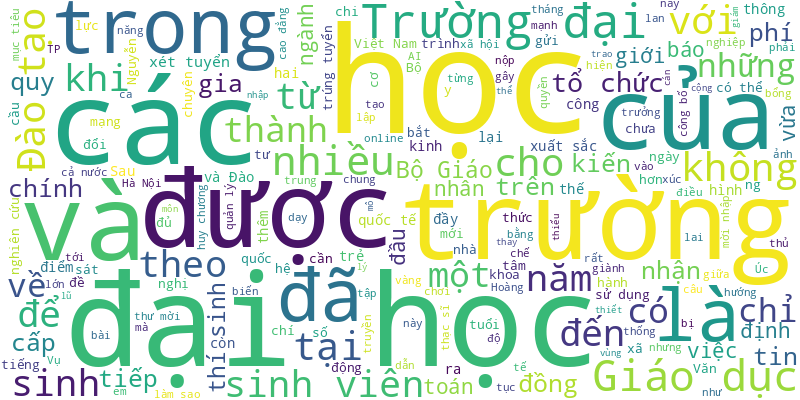
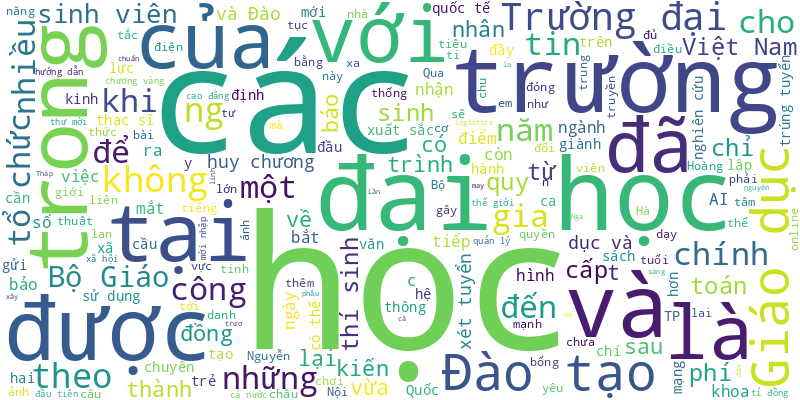
🍀 = 50%

diff --git a/README.md b/README.md
@@ -1,6 +1,15 @@
 # Tuoi Tre RSS 
 
 ## Giáo dục 
+- Việt Nam giành 1 giải Champion, 10 huy chương vàng, 7 huy chương bạc, 4 huy chương đồng tại Đấu trường toán học châu Á AIMO 2025.
+- Quảng Ngãi đề xuất khoảng 750 tỉ đồng xây dựng 5 trường học liên cấp ở 5 xã. Các xã còn lại sẽ đề xuất sau.
+- Lần đầu tiên một chương trình đào tạo thạc sĩ chuẩn Đức trong lĩnh vực logistics và quản lý chuỗi cung ứng được tổ chức tại Việt Nam.
+- Những mảnh đời kém may mắn tại Đồng Tháp được phẫu thuật mắt miễn phí nhờ chương trình 'Phẫu thuật mắt đục thủy tinh thể - Rạng ngời đôi mắt Việt Nam', với chủ đề ‘Ánh sáng Sen Hồng’ lần 1 năm 2025'.
+- Bộ Giáo dục và Đào tạo vừa ban hành hướng dẫn dạy học 2 buổi/ngày theo nguyên tắc linh hoạt và đảm bảo nguyên tắc tự nguyện.
+- Khoảng 6,3 tỉ đồng là số tiền mà Trường cao đẳng Việt Nam - Hàn Quốc - Quảng Ngãi nợ giảng viên. Trong đó tiền nợ dạy vượt giờ kéo dài cả chục năm. Chủ tịch UBND tỉnh Quảng Ngãi yêu cầu rà roát, giải quyết.
+- Trong danh sách các đơn vị chậm đóng bảo hiểm xã hội với số tiền lớn và kéo dài tại TP Đà Nẵng, một trường THPT công lập ở thị xã Điện Bàn (cũ) nợ hơn 474 triệu bảo hiểm khiến nhiều người băn khoăn. Thực hư ra sao?
+- Công cụ AI của start-up này giúp sinh viên đặt bất kỳ câu hỏi nào và nhận lại kết quả chính xác, tin cậy, có trích dẫn minh bạch, và đặc biệt phù hợp với văn hóa, ngôn ngữ Việt Nam.
+- Theo dự luật mới, các sách do AI tạo ra sẽ được sử dụng như sách tham khảo, thay vì là sách giáo khoa bắt buộc.
 - Sau khi sáp nhập đơn vị hành chính, hàng nghìn xã phường thiếu cán bộ giáo dục có chuyên môn là điều đã có thể dự báo. Đã đến lúc cần thay đổi mô hình quản lý, trao quyền cho nhà trường và thiết lập cơ chế giám sát từ cộng đồng.
 - Học bổng ngăn dòng học sinh vùng lũ Nghệ An bỏ học đến với các em khi nước lũ vừa rút, tiếp thêm động lực cho các em tới trường tìm con chữ.
 - Theo Bộ Giáo dục - Đào tạo, cả nước cần khoảng 6.000 cán bộ giáo dục cấp xã sau khi tổ chức lại chính quyền hai cấp.
@@ -42,69 +51,64 @@
 - Không khó để bắt gặp những ý tưởng táo bạo, những mô hình sáng tạo được hình thành ngay từ giảng đường đại học.
 - Nhiều trường đại học đã thông báo trúng tuyển, thậm chí gửi thư mời nhập học cho thí sinh trong khi hiện vẫn chưa đến ngày tổ chức xét tuyển đại học chính quy năm 2025.
 - Trong bối cảnh các trường đại học đẩy mạnh tự chủ và học phí tăng theo lộ trình, chi phí học tập tại các TP lớn liên tục tăng thời gian qua, nhu cầu vay vốn học tập của sinh viên rất lớn.
-- Bối cảnh xã hội nhiều biến động và thách thức hiện nay đặt ra những đòi hỏi mới với từng gia đình, nhà trường và cả nền giáo dục cũng như xã hội để trả lời chung câu hỏi "Làm sao để con trẻ lớn lên vững vàng giữa thời đại biến động?".
-- Đây là mục tiêu được Đại học Kinh tế quốc dân đề ra thực hiện vào năm 2030, trong đề án phát triển tiếng Anh trở thành ngôn ngữ thứ hai trong nhà trường vừa được đại học ban hành.
-- Bộ trưởng Nguyễn Kim Sơn đã có trả lời về kiến nghị cho phép tổ chức dạy thêm học thêm tại trường dưới sự quản lý chặt chẽ của ngành giáo dục, nộp thuế đầy đủ.
-- Có một vấn đề đã được nhận ra từ rất lâu nhưng đến nay vẫn chưa thay đổi nhiều, đó là làm sao đào tạo y khoa ở Việt Nam tiếp cận được chuẩn quốc tế.
-- Vụ thầy Trần Văn Tâm, cựu hiệu trưởng Trường THCS Tam Giang Tây (xã Tân Ân, tỉnh Cà Mau), bị tuyên 7 năm tù vì 'tham ô' hơn 10,7 triệu đồng khiến nhiều người băn khoăn về việc xử lý các khoản chi lặt vặt...
-- Nhiều sinh viên khóa K21 Trường đại học Sư phạm - Đại học Đà Nẵng thắc mắc khi chỉ nhận được 2 tháng tiền hỗ trợ sinh hoạt phí theo Nghị định 116, dù quyết định của trường ghi rõ mức chi là 3 tháng.
-- Phùng Thế Thông từng là 1 trong 92 thủ khoa tốt nghiệp xuất sắc của các trường đại học, cao đẳng trên địa bàn thành phố Hà Nội năm 2021.
-- OpenAI công bố “chế độ học tập” trên ChatGPT nhằm khuyến khích học sinh, sinh viên sử dụng công cụ này một cách có trách nhiệm.
-- Theo Cơ quan giám sát Internet của Úc, kết quả khảo sát cho thấy 37% thanh thiếu niên Úc trong độ tuổi từ 10-15 thừa nhận đã tiếp xúc với nội dung độc hại trên YouTube.
 ![Edu](Edu.png)
 ## Thời Sự 
-- Ghi nhận tại các chợ, các điểm bán tự phát ở TP.HCM, tình trạng thương lái bán heo nhỏ không hiếm.
-- Bộ trưởng Bộ Xây dựng Trần Hồng Minh cho biết như vậy khi trao đổi với Tuổi Trẻ nhân dịp Đại hội Đảng bộ Bộ Xây dựng lần thứ nhất, nhiệm kỳ 2025-2030.
-- Để kiểm soát dịch tả heo châu Phi, Bộ Nông nghiệp và Môi trường đề nghị các tỉnh, TP tổ chức chống dịch theo đúng quy định, bảo đảm xử lý dứt điểm các ổ dịch, không để dịch bệnh lây lan ra diện rộng.
-- Ngày 5-8, mạng xã hội xuất hiện clip 5 người cầm ghế, cây sắt lao vào ẩu đả trên đường Hậu Giang, phường Bình Tây (TP.HCM) gây náo loạn. Hiện lực lượng công an đã truy xét và đưa những người liên quan lên làm việc.
-- Những ngày qua thời tiết TP.HCM và Nam Bộ mưa ít, nhiều nơi đứt mưa dù đang giữa mùa mưa, trời nóng oi bức, nguyên nhân do đâu?
-- Nhiều du khách bày tỏ sự tiếc nuối về phố Bùi Viện ngày xưa, đồng thời không giấu được sự thất vọng trước tiếng ồn và sự hỗn loạn của khu phố hiện tại.
-- Chiều 4-8, báo Tuổi Trẻ phối hợp với Tỉnh đoàn Nghệ An trao học bổng ngăn dòng học sinh bỏ học cho 100 học sinh bị ảnh hưởng bởi mưa lũ do cơn bão số 3 (bão Wipha) tại xã Mỹ Lý.
-- Người dân ở xã Xa Dung (tỉnh Điện Biên) chưa hết bàng hoàng vì trận lũ quét, sạt lở kinh hoàng hôm 1-8.
-- Tin tức đáng chú ý: Bộ Công an đề xuất mới về miễn thị thực với người nước ngoài; Đề xuất quy định mới về kinh doanh casino; Sau trả nợ trăm tỉ cho bà Trương Mỹ Lan, cổ phiếu Quốc Cường Gia Lai kịch trần...
-- Hôm nay 5-8, Bắc Bộ có sự chuyển đổi phức tạp giữa đợt nắng nóng và đợt mưa, thời tiết chuyển biến khó lường. Nam Bộ ngày nắng, có nơi nắng nóng.
-- Tối 4-8, Thủ tướng Phạm Minh Chính, trưởng Ban Chỉ đạo quốc gia triển khai Nghị quyết số 68 của Bộ Chính trị về phát triển kinh tế tư nhân, chủ trì phiên họp lần thứ nhất.
-- Cảnh sát giao thông Đội Cát Lái đã lập biên bản tài xế xe đầu kéo lạng lách, đánh võng trên cao tốc TP.HCM - Long Thành - Dầu Giây.
-- Thủ tướng Phạm Minh Chính họp Thường trực Chính phủ chiều 4-8, chuẩn bị cho phiên họp thường kỳ tháng 7-2025.
-- Nghi phạm chính vụ mua bán người do công an Nghệ An điều tra bị bắt khi làm công nhân tại công ty khoáng sản ở vùng núi Đà Nẵng.
-- Công ty Vận hành hệ thống điện và thị trường điện quốc gia cho biết công suất cực đại hệ thống điện quốc gia đạt khoảng 54.500MW.
-- Nhiều bệnh viện tại TP.HCM chưa được chi trả gần 2.500 tỉ đồng vượt dự toán BHYT trong hai năm 2023 và 2024.
-- Ban Bí thư quyết định bổ nhiệm ông Nguyễn Thanh Bình, vụ trưởng Vụ Tổ chức - Điều lệ, giữ chức phó trưởng Ban Tổ chức Trung ương.
-- Hàng trăm tấn rác bủa vây cảng cá Xuân Hội gần 10 ngày, chưa thể xử lý, ảnh hưởng lớn đến ngư dân ra khơi.
-- Cao tốc Quảng Ngãi - Hoài Nhơn tăng tốc thi công để hoàn thành cơ bản trong năm 2025 theo chỉ đạo của Thủ tướng.
-- Chiều 4-8, Tập đoàn VNPT chính thức công bố đưa vào khai thác tuyến cáp quốc tế VSTN dài 3.900km, đi qua năm quốc gia.
-- Theo điều chỉnh quy hoạch sân bay Gia Bình vừa được bộ trưởng Bộ Xây dựng phê duyệt, tầm nhìn đến năm 2050 sân bay này sẽ có 4 đường băng.
-- Không được nhập làn, tài xế xe ô tô con chạy lên rút chìa khóa xe khách rồi bỏ đi, khiến hành khách mắc kẹt gần 1 giờ trên vành đai 3.
-- Trong lúc 2 người đi trên xe máy đang sang đường trên quốc lộ 1, đoạn qua thôn Phong Phú (xã Ô Loan, tỉnh Đắk Lắk) thì bị xe khách tông khiến cả hai thiệt mạng.
-- Chỉ trong một thập kỷ, nhiều hộ dân ven biển Cà Mau đã bị sạt lở mất trắng hàng chục công đất, nhà cửa cũng bị cuốn trôi.
-- Làm việc với thường trực Đảng ủy 135 xã, phường của tỉnh Gia Lai ngày 4-8, bí thư Tỉnh ủy nêu mục tiêu toàn tỉnh phải phấn đấu xóa toàn bộ hộ nghèo.
-- Nghỉ việc ở công ty, nay muốn đóng bảo hiểm xã hội để có lương hưu thì có được không, quyền lợi là gì?
-- Chủ tịch UBND tỉnh Khánh Hòa vừa yêu cầu Sở Xây dựng đề xuất phương án xử lý phù hợp đối với các quy hoạch chi tiết không phù hợp.
-- Trong 94 dự án do Thanh tra TP.HCM công bố thanh tra thì nhóm dự án hạ tầng giao thông, kỹ thuật, cảng chiếm tỉ lệ vốn đầu tư lớn nhất.
-- UBND phường Cửa Nam (Hà Nội) cho biết thông tin phường "sẽ là nơi đầu tiên thí điểm việc cấm xe máy xăng" là chưa chính xác.
-- 9 đồ án quy hoạch Khu kinh tế Dung Quất hoàn tất, tạo nền tảng quan trọng cho giai đoạn phát triển mới của khu kinh tế trọng điểm miền Trung.
-- Sơn thông tin tốc độ trên mặt đường có thể giúp tài xế giảm bị phạt vi phạm tốc độ.
-- UBND đặc khu Phú Quốc ra quân san ủi, dựng hàng rào dài gần 6km để ngăn việc chiếm đất dự án nâng cấp, mở rộng cảng hàng không quốc tế Phú Quốc.
-- Bí thư Đảng ủy và chủ tịch UBND xã Tam Thái, huyện Phú Ninh, Quảng Nam (cũ) bị khởi tố nhưng vẫn được bố trí làm việc ở xã mới, TP Đà Nẵng sau sáp nhập.
-- Theo quy định Ban Chỉ đạo do Ban Bí thư thành lập, chịu trách nhiệm trước Ban Bí thư trong việc chỉ đạo, phối hợp định hướng, tổng kết công tác thông tin đối ngoại.
-- Tổng Bí thư Tô Lâm mong muốn những điển hình tiên tiến của lực lượng Công an nhân dân phải được nhân rộng, lan tỏa.
-- Đại tá Nguyễn Minh Tuấn nêu rõ thủ đoạn của các đối tượng sản xuất, buôn bán hàng giả một cách công khai dưới vỏ bọc các doanh nghiệp hợp pháp.
-- Chủ tịch UBND TP.HCM Nguyễn Văn Được yêu cầu cán bộ phải tự lực, tự cường và nghĩ lớn, làm lớn.
-- Ngày 4-8, tại Hà Nội nắng nóng đặc biệt gay gắt, nhiệt độ chạm ngưỡng 40 độ C, độ ẩm thấp khiến thời tiết càng thêm oi bức, khó chịu. Nắng nóng đỉnh điểm, nhiều công nhân, người lao động Hà Nội vẫn 'đội' nắng để làm việc, mưu sinh.
-- Bộ Tư lệnh Quân khu 7 tổ chức Lễ khánh thành tòa nhà Sở Chỉ huy Quân khu - công trình trọng điểm chào mừng Đại hội đại biểu Đảng bộ Quân khu 7 lần thứ XI.
-- Người đàn ông trên chiếc ô tô con chạy lên xe khách rút chìa khóa rồi bỏ đi. Trước đó anh này xin nhập từ làn khẩn cấp vào làn lưu thông nhưng bất thành.
-- Cổ phiếu VIC của Vingroup tăng hết biên độ trong phiên giao dịch sáng nay (4-8).
-- Những ngày qua, nhiều địa phương trải qua đợt nắng nóng gay gắt kéo dài. Nhiều người chia sẻ luôn trong trạng thái đau đầu, nhức mỏi cơ thể.
-- Một bệnh nhân nam bị tai nạn giao thông dẫn đến xe tải cán ngang bụng, nhiều mô tạng bị giập nát được các bác sĩ tại TP.HCM cứu sống kịp thời.
-- Phát biểu chỉ đạo tại Đại hội đại biểu xã Thạnh Xuân (thành phố Cần Thơ), Chủ tịch Quốc hội Trần Thanh Mẫn yêu cầu trong thời gian tới chính quyền xã phải gần dân, sát dân, giải quyết được công việc cho dân.
-- Một xe tải chở máy múc vướng dây cáp viễn thông và làm đứt nhưng không khắc phục, làm người đi xe máy gặp nạn sau đó.
-- Phường Xuân Hòa trao tặng 30 bản đồ hành chính 168 phường, xã, đặc khu của TP.HCM cho các trường học trên địa bàn phường.
-- Đội 6 Cục Cảnh sát giao thông và Đội cảnh sát giao thông Cát Lái đang xác minh clip xe đầu kéo lạng lách, đánh võng khiến người đi đường trên cao tốc TP.HCM - Long Thành - Dầu Giây khiếp vía.
-- Sau khi xem mạng xã hội, một phụ nữ ở TP.HCM sơ cứu đột quỵ cho chồng bằng cách dùng kim khâu chích máu ở đầu ngón tay dẫn đến nguy kịch.
-- Chủ tịch UBND TP.HCM tặng bằng khen cho anh Cao Thành Đạt, ngụ tại phường Tân Hải, TP.HCM, đã cứu một bé gái bị ngạt nước.
-- Sáng 4-8, Chủ tịch UBND TP.HCM Nguyễn Văn Được dẫn đầu đoàn công tác đến thị sát Trung tâm phục vụ hành chính công phường Bà Rịa, TP.HCM.
+- Những trận sạt lở, lũ quét mấy ngày qua khiến hơn 300 ngôi nhà của người dân ở Điện Biên chịu thiệt hại nặng nề.
+- Một số tin tức đáng chú ý: Căn cước, số định danh thay thế mã số bảo hiểm xã hội từ 1-8; Số tài khoản chứng khoán mở mới tăng vọt; Đề xuất chủ tịch xã, trưởng công an xã được xử phạt vi phạm đường bộ...
+- Chỉ trong vòng hai năm 2023 và 2024, Sở Y tế TP.HCM ghi nhận cơ quan Bảo hiểm xã hội (BHXH) chưa chi trả chi phí vượt dự toán chi khám chữa bảo hiểm y tế cho các bệnh viện với số tiền gần 2.500 tỉ đồng.
+- Hôm nay 6-8, thời tiết Bắc Bộ nhiều mây, chiều tối vẫn mưa to nhiều nơi. Nam Bộ ngày nắng oi, chiều tối mưa dông.
+- Về tình hình an ninh mạng Việt Nam đang phải đối mặt, có tình trạng phát tán tin giả, sai sự thật, đặc biệt từ một số KOL, gây dư luận xấu.
+- Mưa lớn kèm lốc xoáy tại xã Sơn Thành, tỉnh Đắk Lắk khiến nhà dân, bị tốc mái, trụ điện gãy ngã. Một người dân bị thương phải đưa đi cấp cứu.
+- Cơn mưa lớn trút xuống TP.HCM vào giờ tan tầm đã khiến giao thông tại các ngã tư đường Đỗ Mười, Hoàng Cầm, quốc lộ 13... hỗn loạn, ùn ứ kéo dài.
+- Sau cơn mưa lớn chiều tối 5-8, ‘rốn ngập’ trên đường Đồng Khởi (phường Trảng Dài, tỉnh Đồng Nai) lại ngập sâu, nước từ hẻm tuôn ra như thác.
+- Hà Nội có mưa lớn sau thời gian nắng nóng kéo dài. Mưa như trút trắng xóa bầu trời Hà Nội, khiến nhiều tuyến đường ngập sâu, ùn tắc kéo dài trong tối 5-8.
+- Tổng Bí thư Tô Lâm nhấn mạnh những điểm nghẽn đã phát hiện phải được xử lý ngay, triệt để, không để tiếp tục cản trở phát triển và khơi thông nguồn lực.
+- Sở Xây dựng tỉnh Khánh Hòa cũ đã đề nghị tỉnh ban hành quy trình riêng để hủy bỏ nhiều quy hoạch ở Khánh Hòa không còn phù hợp.
+- Có 35 nhóm bệnh lý mà người bệnh được chuyển thẳng từ cấp khám, chữa bệnh ban đầu đến cấp khám, chữa bệnh chuyên sâu.
+- Cơn mưa tối 5-8 tại TP.HCM có vũ lượng lớn nhất ở các địa phương thuộc Thủ Đức, Bình Dương cũ khiến ngập nước khắp nơi, kẹt xe kéo dài.
+- Sở Nông nghiệp và Môi trường Quảng Trị sẽ biệt phái 40 cán bộ trẻ về các xã phường để hỗ trợ xử lý các thủ tục trong quản lý đất đai.
+- Quân chủng Phòng không - Không quân sử dụng 40 máy bay, Quân chủng Hải quân có tàu ngầm, tàu hộ vệ tên lửa, tàu tên lửa, tàu hộ vệ chống ngầm, các loại tàu cảnh sát biển, kiểm ngư… tham gia diễu binh dịp 80 năm Quốc khánh.
+- Sau một ngày nắng nóng, chiều tối 5-8 thời tiết TP.HCM chuyển mưa dữ dội, nhiều nơi mưa ngập nặng, sấm chớp ì đùng.
+- Chiều tối nay, mây dông đang phát triển và gây mưa to cho một số tỉnh Bắc Bộ, trong đó có Hà Nội.
+- Đó là yêu cầu của Thượng tướng Phạm Hoài Nam - thứ trưởng Bộ Quốc phòng, tại Đại hội đại biểu Đảng bộ Tập đoàn Công nghiệp - Viễn thông quân đội (Viettel) lần thứ XI, nhiệm kỳ 2025 - 2030.
+- Phấn đấu hoàn thành đàm phán với dự án Nhà máy điện hạt nhân Ninh Thuận 1 trong tháng 8-2025, còn Ninh Thuận 2 chậm nhất tháng 5-2026.
+- Bộ Công an đánh giá cao các mô hình đảm bảo an ninh trật tự của Lâm Đồng và đề nghị các đơn vị, địa phương khác nghiên cứu, nhân rộng.
+- Phát hiện xe mất phanh khi đang xuống dốc Cun (Phú Thọ), tài xế xe khách đã hô hoán hành khách ngồi về phía sau xe, thắt dây an toàn...
+- Vậy là phép màu không xảy ra, cháu bé bị bảo mẫu bạo hành, ném mạnh xuống nền nhà đã qua đời vì chấn thương sọ não quá nặng.
+- TP Huế đang nghiên cứu, xây dựng kế hoạch tổ chức tập huấn, sát hạch cán bộ, công chức cấp xã để làm cơ sở cho việc bố trí lại đội ngũ.
+- Người dân tiếp cận đất đai lần đầu để làm nhà ở cần tính toán mức thu phù hợp với khả năng chi trả, bảo đảm quyền lợi, khả năng tiếp cận thực tế.
+- Hơn 3.560 doanh nghiệp ở Đồng Nai có nhu cầu tuyển dụng hơn 88.000 lao đồng, hơn 50% trong đó là lao động phổ thông.
+- Thuế cơ sở 2 TP.HCM vừa có thông báo cho hộ ông Đặng Hữu Phước phải nộp tiền sử dụng đất (tiền đất) hơn 1,3 tỉ đồng.
+- Trong ngày 5-8, phường Long An, phường Long Hoa và xã Vĩnh Hưng đã tổ chức đại hội Đảng bộ lần thứ I.
+- Nhiều ý kiến cho rằng giá ly cà phê 110.000 đồng tại quán Mê Linh Coffee Garden (phường Cam Ly, Đà Lạt) là hợp lý, số khác nói 'quá chát'.
+- Mặc cái nóng bỏng rát như thiêu đốt của mùa hè miền Bắc, các nữ quân nhân vẫn sải bước rực rỡ trên thao trường tổng hợp luyện diễu binh, diễu hành cho nhiệm vụ A80.
+- Tài xế lái xe ben thi công công trình đã làm gãy hàng loạt xà gỗ và đứt đường dây thông tin tín hiệu đường sắt đoạn Hải Vân Nam - Kim Liên (Đà Nẵng).
+- Đơn vị thi công cao tốc Châu Đốc - Cần Thơ - Sóc Trăng khẳng định muốn đưa cao tốc thông xe vào cuối năm 2025 như chỉ đạo của Thủ tướng, phải cho đơn vị thi công chuyển nguồn cát ở mỏ từ năm 2026 sang năm 2025 để phục vụ cao tốc.
+- Ông Nguyễn Đức Quân, cựu chiến binh, tự nguyện lái xe tải hút được 116kg vụn sắt, vật nhọn, cũng như vá xe, thay ruột xe miễn phí giúp người đi đường.
+- Nếu không tính Tây Ninh, trong số 5 tỉnh thành còn lại của Đồng bằng sông Cửu Long thì Cần Thơ đứng thứ 4 trong thu hút vốn FDI. Vì sao là trung tâm vùng mà Cần Thơ thu hút vốn FDI "khiêm tốn"?
+- Ngày 5-8, Thanh tra tỉnh Đồng Nai đã công bố quyết định thanh tra 74 dự án do Thanh tra Chính phủ đưa vào danh sách phải thanh tra, kiểm tra.
+- Chiều 5-8, Tổ đại biểu HĐND TP.HCM đơn vị số 3 có buổi tiếp xúc cử tri phường Xuân Hòa, Bàn Cờ, Nhiêu Lộc. Nhiều vấn đề được đóng góp, trong đó nổi bật nhất là chuyển đổi xe xăng sang xe điện.
+- Bộ Nông nghiệp và Môi trường quyết định thành lập 10 đoàn công tác do 10 thứ trưởng làm trưởng đoàn xuống các địa phương hướng dẫn, giải quyết vướng mắc trong lĩnh vực nông nghiệp và môi trường khi vận hành chính quyền hai cấp.
+- Cơ quan cảnh sát điều tra Công an tỉnh Vĩnh Long đã khởi tố bị can tài xế điều khiển xe tải tông trúng khiến nữ sinh 14 tuổi ở huyện Trà Ôn cũ tử vong vào tháng 9-2024.
+- 3 người thương vong sau khi ô tô điện húc trực diện vào đuôi xe tải chở rác đang dừng lấy rác, ven quốc lộ 1 ở tỉnh Vĩnh Long.
+- Thủ tướng Phạm Minh Chính nhấn mạnh như vậy khi phát biểu tại Đại hội đại biểu lần thứ I nhiệm kỳ 2025-2030 của Đảng bộ Bộ Xây dựng sáng 5-8.
+- Sáng 5-8, Tổng Bí thư Tô Lâm đã thăm và làm việc với Quân đoàn 12 (Bộ Quốc phòng).
+- Sau sáp nhập Quảng Ngãi - Kon Tum thành tỉnh Quảng Ngãi mới, quốc lộ 24 là tuyến đường huyết mạch nối phía đông và phía tây tỉnh. Nhưng 57km quốc lộ 24 chỉ ngang đường cấp 5 miền núi, mặt đường rộng dưới 6m.
+- Dù đã khảo sát và lập phương án, lực lượng chức năng tỉnh Quảng Trị nhận định việc đánh sập hầm vàng trái phép bằng thuốc nổ tại xã Bến Quan là khó khả thi, tiềm ẩn nhiều rủi ro.
+- Vụ việc nam tài xế cho rằng xe khách không nhường đường nên đã rút chìa khóa xe khách, bỏ mặc xe và hành khách phơi nắng trên đường, luật sư cho rằng hành vi này có dấu hiệu vi phạm pháp luật.
+- Bí thư Thành ủy Đà Nẵng Nguyễn Văn Quảng đã nhấn mạnh việc xây dựng quy trình làm việc trong các cơ quan Đảng theo hướng tinh giản, hiệu quả.
+- Đây là nhiệm vụ chưa có tiền lệ, được Bộ trưởng Bộ Nội vụ Phạm Thị Thanh Trà nêu ra tại hội nghị giao ban Bộ Nội vụ triển khai nhiệm vụ công tác tháng 8.
+- Trung tâm Quản lý giao thông công cộng (Sở Xây dựng TP.HCM) phát động cuộc thi thiết kế logo, biểu trưng "Biểu tượng đô thị - Dấu ấn kết nối" cho hệ thống giao thông công cộng trên địa bàn.
+- Phó bí thư Thường trực Thành ủy TP.HCM Nguyễn Thanh Nghị yêu cầu phường Lái Thiêu và Tân Phước quan tâm công tác quản lý trật tự đô thị.
+- Sáng 5-8, Đại hội đại biểu Đảng bộ Quân sự tỉnh Đồng Nai lần thứ I (nhiệm kỳ 2025-2030) đã khai mạc. Đây là đại hội được Ban Thường vụ Đảng ủy Quân khu 7 lựa chọn làm trước để rút kinh nghiệm cho toàn lực lượng vũ trang Quân khu 7.
+- Gần 16.000 cán bộ, chiến sĩ quân đội và công an tham gia tổng hợp luyện chuẩn bị cho nhiệm vụ Lễ diễu binh, diễu hành kỷ niệm 80 năm Cách mạng Tháng Tám thành công và Quốc khánh 2-9 (nhiệm vụ A80).
+- Cán bộ, chiến sĩ Vùng Cảnh sát biển 4 vừa kịp thời hỗ trợ một ngư dân bị gãy xương cẳng tay trái khi đang đánh bắt cá trên vùng biển Tây Nam.
 ![New](News.png)
 ## Nhịp sống số 
+- Thủ tướng Thụy Điển Ulf Kristersson hứng chỉ trích khi thừa nhận thường xuyên sử dụng AI như ChatGPT để hỗ trợ việc ra quyết định.
+- Từ vụ hàng ngàn cuộc trò chuyện của người dùng trên ChatGPT bị lộ trên Google, chuyên gia bảo mật cảnh báo: AI là công cụ hỗ trợ hữu ích, nhưng không phải là 'hộp đen an toàn'.
+- Theo dự thảo Dự luật Cấm thông tin sai lệch và tin giả Karnataka 2025 (Ấn Độ), người đăng tin giả có thể bị phạt tù.
+- Meta dùng “Community Notes” thay thế các tổ chức kiểm chứng chuyên nghiệp, nhưng hệ thống này bị đánh giá là kém hiệu quả.
 - Rò rỉ thông tin iPhone 17 Air cho thấy đây sẽ là phiên bản có thiết kế cực kỳ mỏng, chỉ khoảng 5,5mm.
 - Mô hình AI này chuyển đổi dữ liệu vệ tinh - như màu sắc, mây, địa hình - thành các dạng biểu diễn số, giúp người dùng dễ dàng tìm kiếm các đặc điểm như loại cây, tòa nhà hay mạch nước ngầm.
 - Nhiều vụ “bắt cóc online” học sinh, sinh viên gây lo ngại khi kẻ xấu điều khiển nạn nhân từ xa, không cần tiếp xúc trực tiếp.
@@ -151,8 +155,4 @@
 - Nhiều người tin rằng mở chế độ ẩn danh là đủ để che giấu mọi dấu vết khi truy cập Internet. Nhưng thực tế, bạn đang ẩn danh với ai, và liệu có thực sự 'ẩn' như tên gọi?
 - Công nghệ deepfake voice cho phép giả giọng giống hệt người thật, khiến nhiều người sập bẫy vì tin vào giọng nói quen thuộc.
 - Nút home vật lý, jack tai nghe 3.5mm... từng là 'đặc sản' của smartphone nhưng nay đã biến mất cùng sự phát triển chóng mặt của công nghệ hiện đại.
-- Chuyên gia bảo mật cảnh báo người tham gia trào lưu tìm lại ký ức với Google Maps có thể để lộ thông tin cá nhân mà không hay biết.
-- AI đang giúp cảnh báo sớm thiên tai như động đất, lũ, sóng thần nhờ phân tích dữ liệu cảm biến, vệ tinh và mô phỏng lan truyền.
-- Bạn đã từng dùng Bluetooth để nghe nhạc qua tai nghe, AirDrop để gửi ảnh, nhưng có bao giờ thử so sánh chúng?
-- Mỗi lần bạn đăng nhập hay thanh toán, mã OTP chỉ dùng được trong khoảng 30 giây rồi biến mất. Vì sao lại có giới hạn đó, và hệ thống nào đứng sau việc tạo mã nhanh chóng mà vẫn đảm bảo bảo mật?
 ![life](Life.png)
